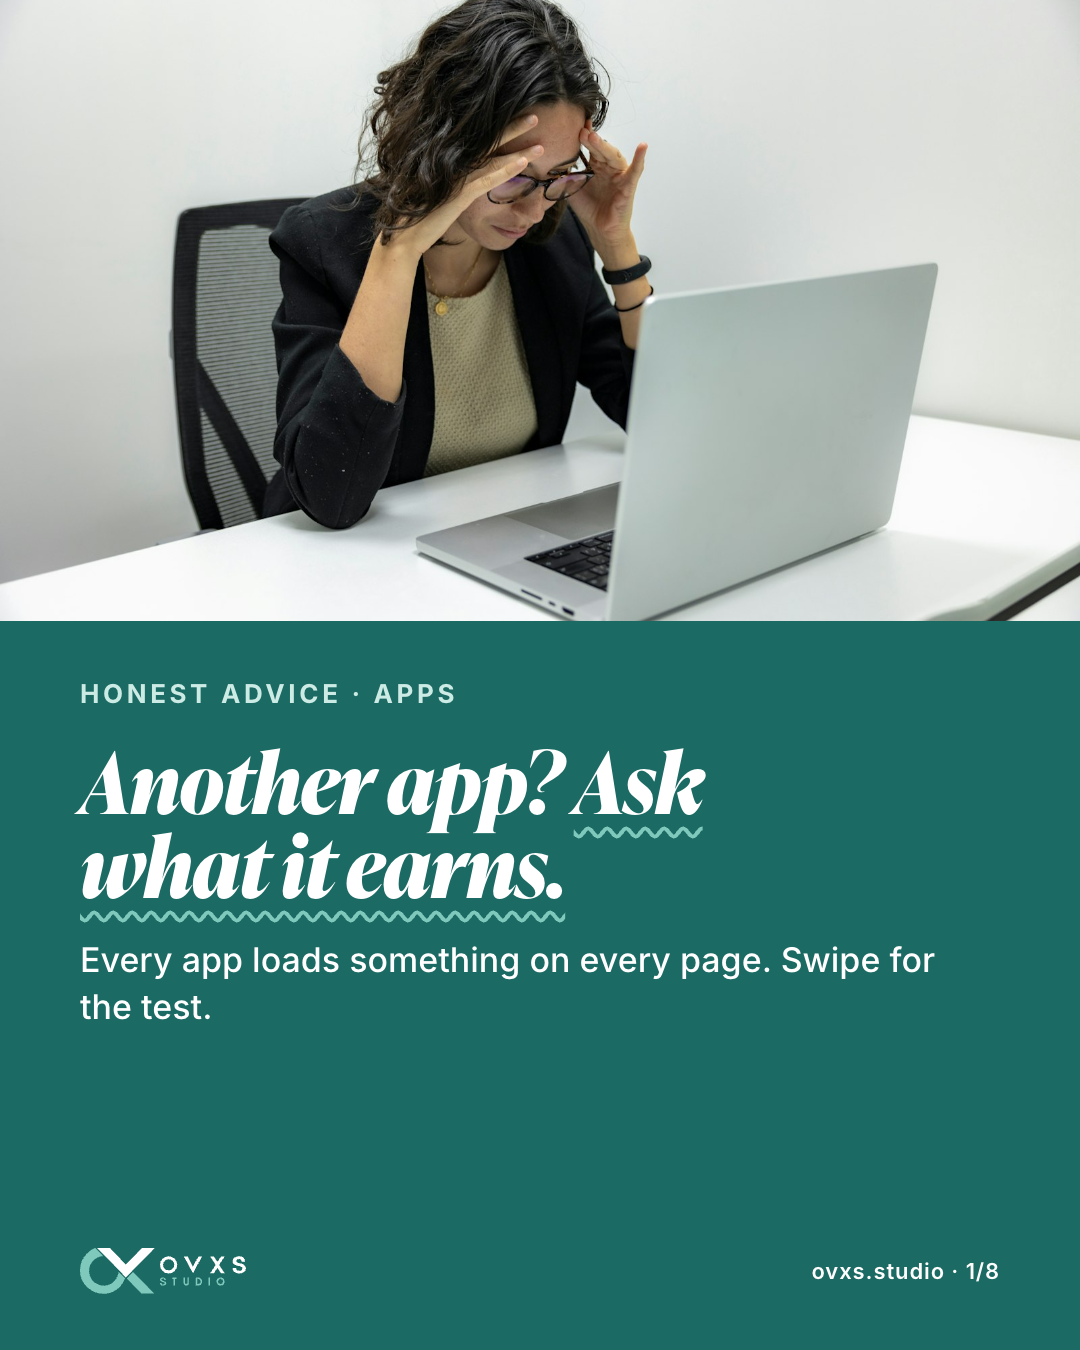
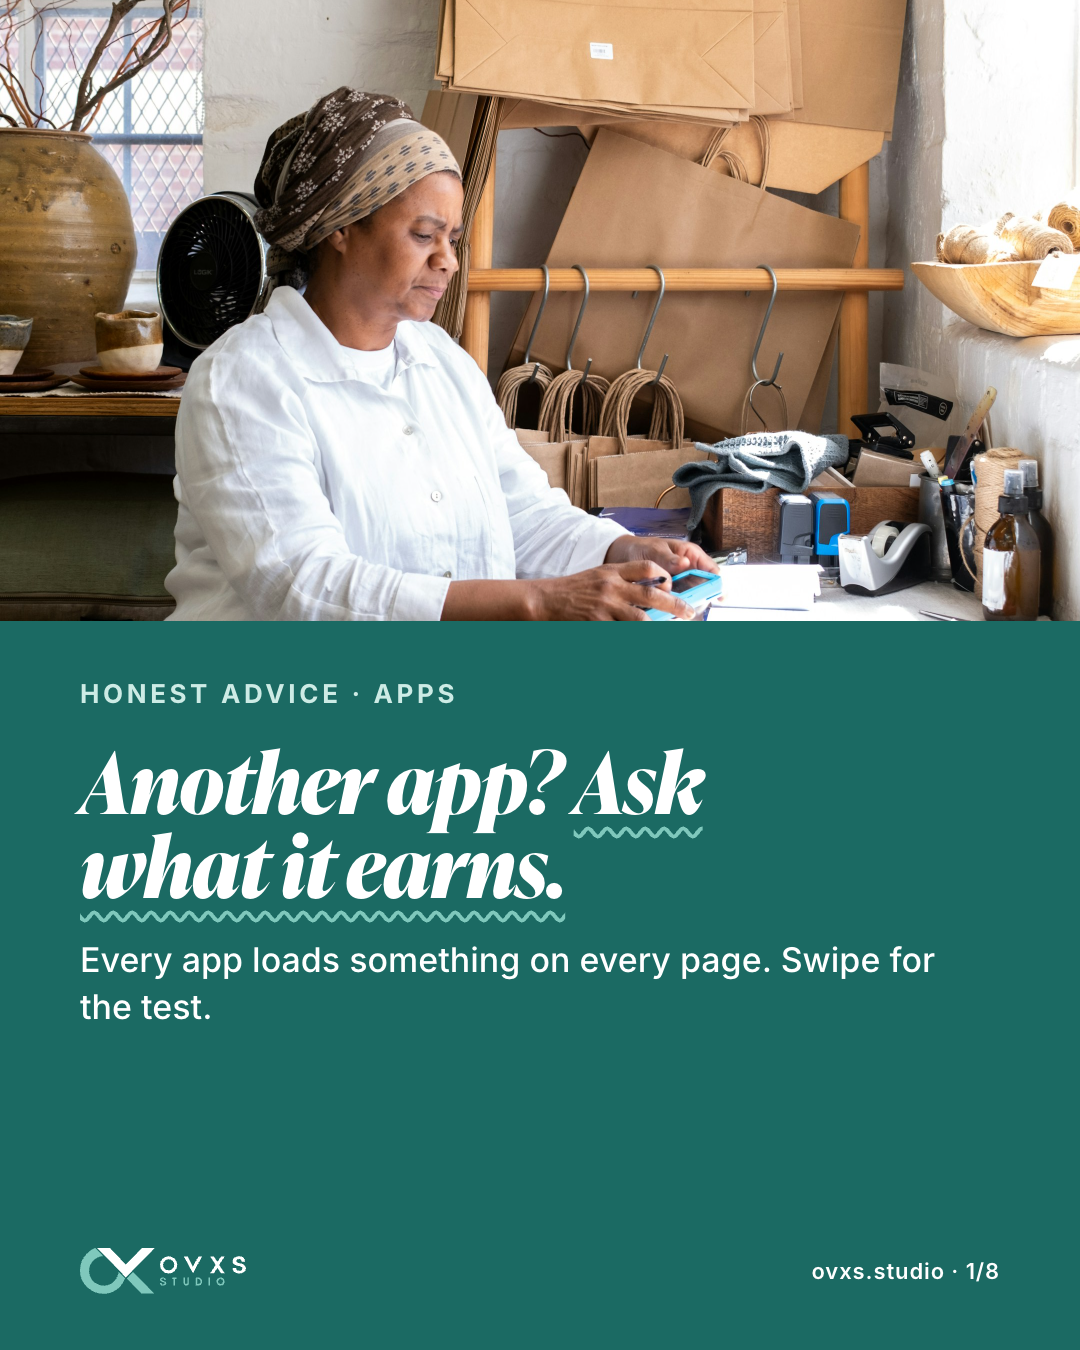
content: fresh Unsplash photos for 'Your store doesn't need another app'

diff --git a/topics/2026-11-12-too-many-apps/page.html b/topics/2026-11-12-too-many-apps/page.html
@@ -134,7 +134,7 @@ Link in comments.
       <div>
         <div class="h3">Graphic · 4:5</div>
         <div class="frame"><div class="board bg-primary ph-on" id="li-graphic">
-          <div class="ph" style="background-image:url(assets/laptop.jpg)"></div>
+          <div class="ph" style="background-image:url(assets/cover.jpg)"></div>
           <div class="pn">
             <div class="ey">Honest advice · Apps</div>
             <h2 class="hd">Another app? <em>Ask what it earns.</em></h2>
@@ -208,12 +208,12 @@ Not sure what to cut? We’ll record a 10–15 minute walkthrough of your store 
 </main>
 <script>
 const slides=[
-  {bg:"primary",ph:"laptop",ey:"Honest advice · Apps",hd:"Another app? <em>Ask what it earns.</em>",sb:"Every app loads something on every page. Swipe for the test."},
+  {bg:"primary",ph:"cover",ey:"Honest advice · Apps",hd:"Another app? <em>Ask what it earns.</em>",sb:"Every app loads something on every page. Swipe for the test."},
   {bg:"dark",ey:"The ceiling",hd:"Built for Shopify still costs <em>up to 10 points.</em>",sb:"That’s what Shopify allows an app to take off your storefront speed score.",src:"Shopify, Built for Shopify criteria 2.2.1"},
   {bg:"surface",n:"01",ey:"List",hd:"List every app <em>you pay for.</em>",sb:"Check the apps page, then your bill. They don’t always match."},
-  {bg:"container",ph:"phone-desk",n:"02",ey:"Earn",hd:"Write the sale <em>it helped make.</em>",sb:"Last month, in plain numbers. Not what it promised."},
+  {bg:"container",ph:"notes",n:"02",ey:"Earn",hd:"Write the sale <em>it helped make.</em>",sb:"Last month, in plain numbers. Not what it promised."},
   {bg:"dark",n:"03",ey:"Overlaps",hd:"Two apps, one job? <em>Keep one.</em>",sb:"Reviews, pop-ups and upsells are where overlaps hide."},
-  {bg:"primary",ph:"phone-table",n:"04",ey:"Leftovers",hd:"Uninstalled isn’t <em>always removed.</em>",sb:"Old app code can keep loading. Check on a duplicate theme, never the live one."},
+  {bg:"primary",ph:"code",n:"04",ey:"Leftovers",hd:"Uninstalled isn’t <em>always removed.</em>",sb:"Old app code can keep loading. Check on a duplicate theme, never the live one."},
   {bg:"container",n:"05",ey:"Small jobs",hd:"Small job? <em>Maybe not an app.</em>",sb:"A custom section from $250 is paid once, not every month."},
   {bg:"dark",ey:"Video audit · $99",hd:"Not sure what to cut? <em>We’ll look for you.</em>",sb:"10–15 minutes, three ranked fixes, no call.",cta:"Book a $99 video audit →"}
 ];

diff --git a/topics/2026-11-12-too-many-apps/brief.md b/topics/2026-11-12-too-many-apps/brief.md
@@ -64,14 +64,14 @@ No request from Ramit. Picked by the weekly run on 2026-11-12: no new Desk reque
 - Make (final): LinkedIn post, IG carousel (8 slides), Article
 - Decided on: 2026-11-13
 - Drafted 2026-11-14 in an interactive session (the scheduled daily run was cancelled). Preview: https://claude.ai/artifact/Dbh5KEYGtPEojQiZRKnK64
-- Photos reused from the dropped Brief 1 because this Mac has no UNSPLASH_ACCESS_KEY in .env. Swap them on the Desk once the key is back.
+- 2026-11-14: Ramit asked for fresh photos. Brief 1 photos replaced with three new Unsplash picks (see Photos); only the four photo images were re-rendered and re-uploaded.
 
 ## Photos
 | File | Source | Photographer | Page |
 |---|---|---|---|
-| assets/laptop.jpg | Unsplash f2JMVDnarks (from Brief 1) | see Unsplash page | LinkedIn graphic, slide 1 |
-| assets/phone-desk.jpg | Unsplash (from Brief 1) | not recorded | slide 4 |
-| assets/phone-table.jpg | Unsplash (from Brief 1) | not recorded | slide 6 |
+| assets/cover.jpg | Unsplash ag5H7Nqbf9U | Filipp Romanovski | LinkedIn graphic, slide 1 |
+| assets/notes.jpg | Unsplash 1rm4_SojyNM | Jakub Żerdzicki | slide 4 |
+| assets/code.jpg | Unsplash _4HiCxdOBLU | Tracy Adams | slide 6 |
 
 ## SEO (articles only)
 - Target keyword: too many Shopify apps
